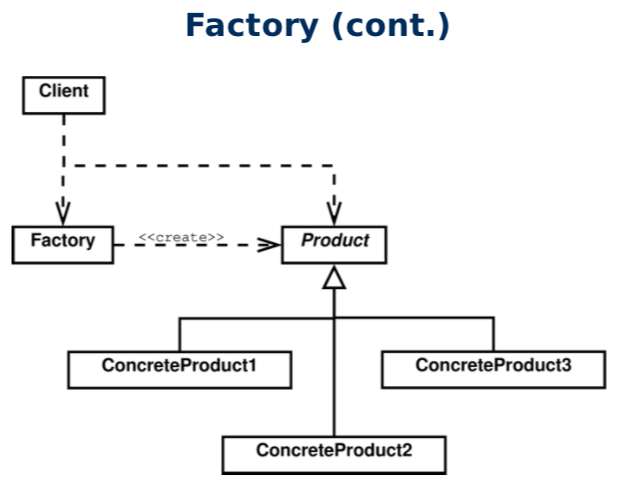
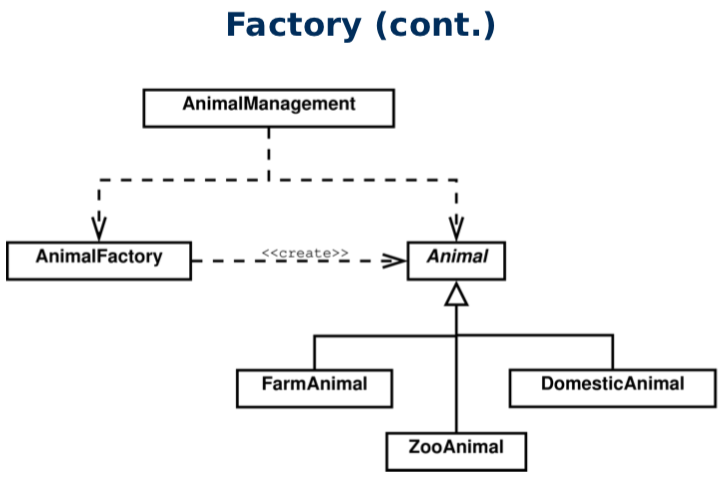
design patterns finished

Changed region(s): [[0.0, 0.2807, 1.0, 0.9979], [0.0306, 0.1559, 0.5516, 0.2807], [0.2758, 0.0, 0.7355, 0.0936]]

diff --git a/README.md b/README.md
@@ -288,12 +288,15 @@ Date d4(d1);  // explicit call to copy constructor
   - initializing data members in constructor
   - also how you call base class constructor
 - order of ctor / dtor
+  - destructors are executed in reverse order as constructor
+  - data members are always destroyed before class
+  - derived classes always destroyed before base class
 
 ```c++
 /// header file ///
 class Calendar {
-    Events work_events;   // data member
-    Events school_events; // data member
+    Events work_events;   // constructed first / destroyed second
+    Events school_events; // constructed second / destroyed first
 };
 
 /// source file ///
@@ -357,7 +360,7 @@ class Address {
 ```
 
 ## Static Class Members
-Static data member and member functions exist to service an entire class.
+Static data members and member functions exist to service an entire class.
 - 'global' to class
 - static functions exists even without class instances
   - must be written to work even if no instances exist
@@ -399,7 +402,7 @@ There are four cases when adding a new element to a linked list:
 There are four cases to consider when removing elements from a linked list:
 1. list is already empty (incorrect input)
 2. remove from the front
-  - removing last element -> newly empty list
+    - removing last element -> creates newly empty list
 3. remove from the middle
 4. remove from the end
 
@@ -438,22 +441,29 @@ class Base {
 
 /// child class header file ///
 class Child : public Base {
-    // code
+    // private   -> invisible
+    // protected -> protected
+    // public    -> public
 };
 
 /// child class header file ///
 class OtherChild : protected Base {
-    // code
+    // private   -> invisible
+    // protected -> protected
+    // public    -> protected
 };
 
 /// child class header file ///
-class OtherChild : private Base {
-    // code
+class UnWantedChild : private Base {
+    // private   -> invisible
+    // protected -> private
+    // public    -> private
 };
 ```
 
 ## Base Class Initializer syntax
 - call base constructor as with class initializer syntax
+  - basically member initializer syntax for base class
 
 ```c++
 /// base class header file ///
@@ -509,8 +519,10 @@ class Child : public virtual Parent_1, virtual public Parent_2 {
 ```
 
 ## Order of Execution
-- constructor: parent to child
-- destructor:  child to parent
+- constructor: parent to child to data members
+- destructor:  data members to child to parent
+
+`// parent class may also have data members...`
 
 # 4.3 | Design Patterns
 A design pattern is a solution to a commonly occurring problem.
@@ -530,21 +542,33 @@ A design pattern is a solution to a commonly occurring problem.
   - e.g. client-server / peer-to-peer / mvc
 
 ## Façade
-Structural design pattern that provides a simplified interface for complex classes
+`Façade` is a structural design pattern that provides a simplified interface for complex classes
 - e.g. client class interacts with Façade
   - which then delegates actual operation(s) to actual class(es)
 
 ![facade](img/facade.png)
 
 ## Observer
-
-![factory](img/factory.png)
-
-## Factory
+`Observer` is a behavioural design pattern that allows observer classes to track subject state changes.
+- subject class contains a collection of observers
+  - updates observers when there are state changes
+- observer class subscribes to notification from subject classes
+  - updates itself when notified by subject of state changes
 
 ![observer](img/observer.png)
 
+## Factory
+`Factory` is a creational design pattern that encapsulates the creation of objects.
+- creates and returns concrete objects
+- client treats created objects as base class
+  - client does not need to know concrete class type
+
+![factory](img/factory.png)
+
 ## Anti-Patterns
+
+Bad programming habit
+- e.g. putting everything into one giant class
 
 # 4.4 | Polymorphism
 - enables generalized use of a class hierarchy
@@ -570,7 +594,7 @@ Linking a function call to a specific function.
 
 ## Virtual Functions
 A virtual function is selected for execution at runtime
-- based oon the type of **object** not on type of **handle**
+- based on the type of **object** not on type of **handle**
   - e.g. **base class** function vs. **child class** function
 - Virtual destructor needs to be implemented
   - to deallocate memory using base class pointer
